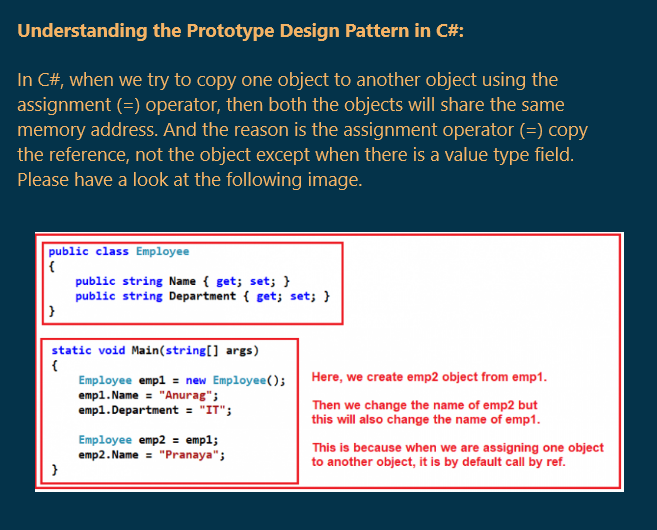
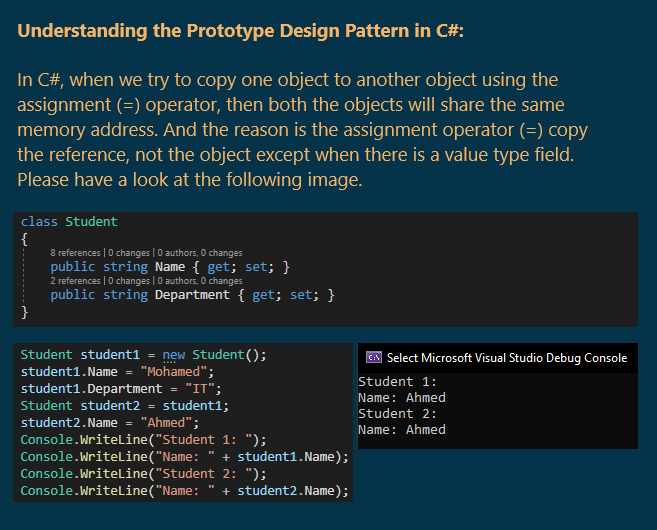
Prototype DP (Modifying the script and the order in some slides)

diff --git a/Creational Design Patterns/CreationalDesignPatterns/CreationalDesignPatterns/Program.cs b/Creational Design Patterns/CreationalDesignPatterns/CreationalDesignPatterns/Program.cs
@@ -64,15 +64,34 @@ namespace CreationalCreationalDesignPatterns
             #endregion
 
             #region 6-Prototype
-            //Student student = new Student();
-            //student.Name = "Mohamed";
-            //student.Department = "IT";
-            //Student emp2 = student.GetClone();
-            //emp2.Name = "Ahmed";
+            #region without Prototype
+
+            //Student student1 = new Student();
+            //student1.Name = "Mohamed";
+            //student1.Department = "IT";
+            //Student student2 = student1;
+            //student2.Name = "Ahmed";
             //Console.WriteLine("Student 1: ");
-            //Console.WriteLine("Name: " + student.Name + ", Department: " + student.Department);
+            //Console.WriteLine("Name: " + student1.Name);  // Name: Ahmed
             //Console.WriteLine("Student 2: ");
-            //Console.WriteLine("Name: " + emp2.Name + ", Department: " + emp2.Department);
+            //Console.WriteLine("Name: " + student2.Name);  // Name: Ahmed
+
+            #endregion
+
+            #region With Prototype
+
+            //Student student3 = new Student();
+            //student3.Name = "Mohamed";
+            //student3.Department = "IT";
+            //Student student4 = student3.GetClone();
+            //student4.Name = "Ahmed";
+            //Console.WriteLine("Student 1: ");
+            //Console.WriteLine("Name: " + student3.Name );  // Name: Mohamed
+            //Console.WriteLine("Student 2: ");
+            //Console.WriteLine("Name: " + student4.Name);   //Name: Ahmed
+
+
+            #endregion
             #endregion
 
             #region 7-SingletonDP
@@ -103,16 +122,16 @@ namespace CreationalCreationalDesignPatterns
             #endregion 3-ThreadSafeUsingEagerLoadingAndLazyKeyword
             #region 3-ThreadSafeUsingEagerLoadingAndLazyKeyword
             #region 1-ThreadSafeUsingEagerLoading
-            Parallel.Invoke(
-            () => PrintFromDeveloper(ThreadSafeUsingEagerLoading.GetInstance),
-            () => PrintFromTester(ThreadSafeUsingEagerLoading.GetInstance)
-            );
-            #endregion
-            #region 2-ThreadSafeUsingLazyKeywords
-            Parallel.Invoke(
-            () => PrintFromDeveloper(ThreadSafeUsingLazyKeyword.GetInstance),
-            () => PrintFromTester(ThreadSafeUsingLazyKeyword.GetInstance)
-            );
+            //Parallel.Invoke(
+            //() => PrintFromDeveloper(ThreadSafeUsingEagerLoading.GetInstance),
+            //() => PrintFromTester(ThreadSafeUsingEagerLoading.GetInstance)
+            //);
+            //#endregion
+            //#region 2-ThreadSafeUsingLazyKeywords
+            //Parallel.Invoke(
+            //() => PrintFromDeveloper(ThreadSafeUsingLazyKeyword.GetInstance),
+            //() => PrintFromTester(ThreadSafeUsingLazyKeyword.GetInstance)
+            //);
             #endregion
             #endregion
             #endregion
